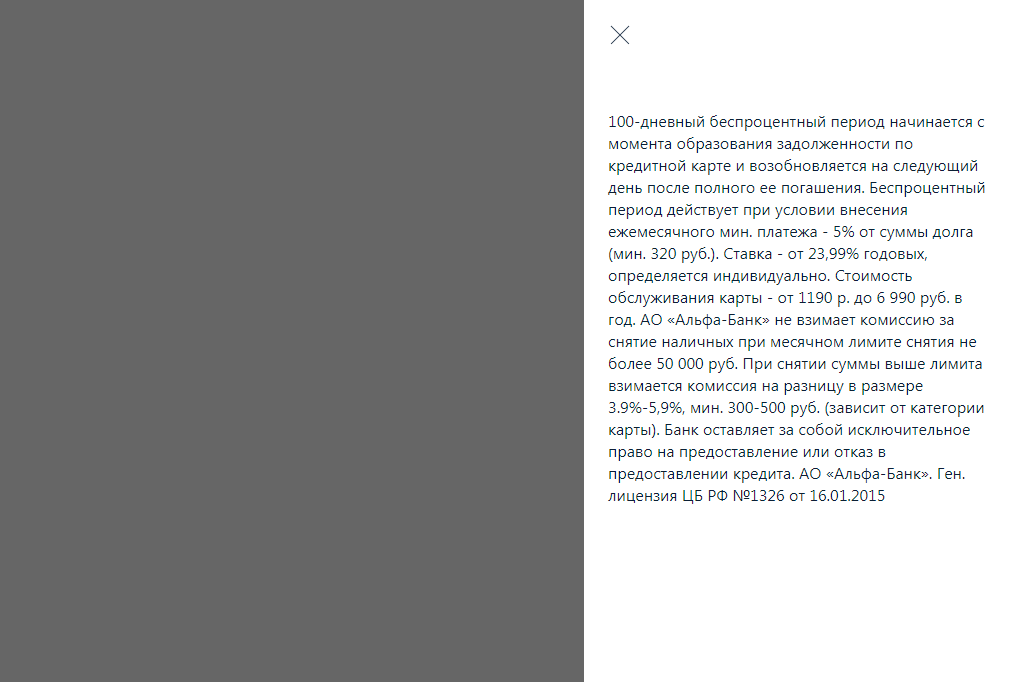
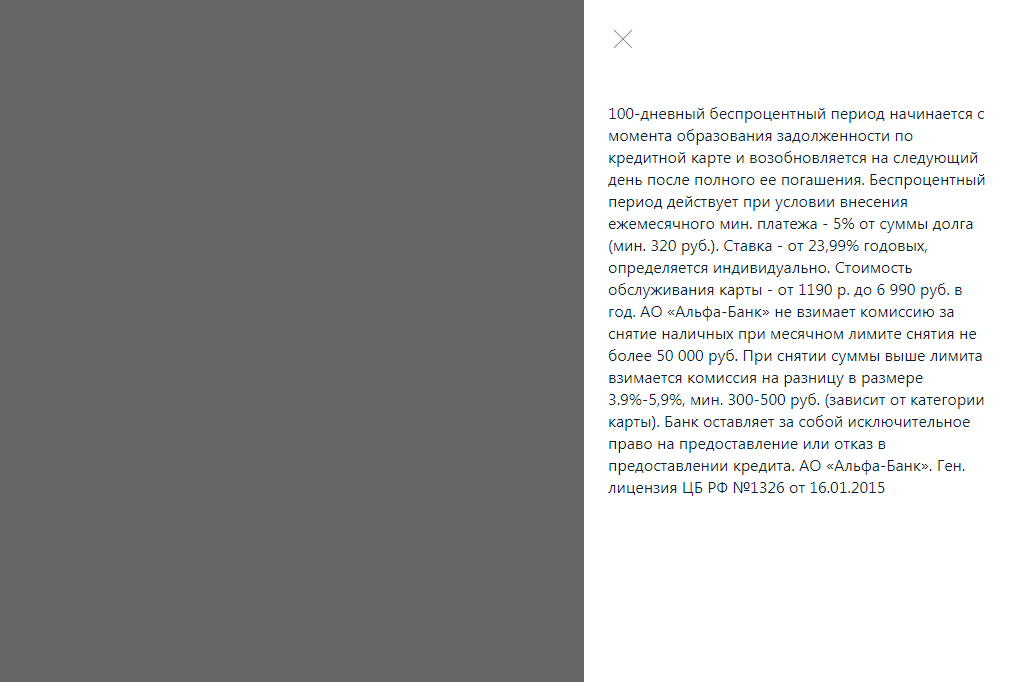
fix(sidebar): updated styles from figma component

Changed region(s): [[0.5809, 0.154, 0.9783, 0.739], [0.6114, 0.0308, 0.642, 0.0616]]

diff --git a/src/sidebar/sidebar.css b/src/sidebar/sidebar.css
@@ -5,13 +5,8 @@
 @import '../vars.css';
 
 :root {
-    --sidebar-width: 352px;
-    --sidebar-shift: 40px;
-    --sidebar-padding: 24px;
-    --sidebar-padding-top: 40px;
-    --sidebar-padding-small: 12px;
-    --sidebar-header-height: 56px;
-    --sidebar-mobile-offset-top: 21px;
+    --sidebar-width: 430px;
+    --sidebar-header-height: 48px;
     --transition-duration: 350ms;
 }
 
@@ -25,9 +20,8 @@ body.sidebar-overlay {
     position: fixed;
     top: 0;
     right: 0;
-    width: calc(var(--sidebar-width) + var(--sidebar-shift));
+    width: var(--sidebar-width);
     height: 100%;
-    padding: 0;
     font-family: var(--font);
     transition: transform var(--transition-duration) ease-in-out;
     transform: translateX(100%);
@@ -43,8 +37,8 @@ body.sidebar-overlay {
 
     &__header {
         display: flex;
-        min-height: 20px;
-        margin-bottom: 50px;
+        min-height: 30px;
+        margin-bottom: var(--gap-4xl);
     }
 
     &__header-content {
@@ -76,7 +70,18 @@ body.sidebar-overlay {
     }
 
     &__closer {
-        margin: -14px 0 0 -10px;
+        margin: -9px;
+        opacity: 0.6;
+        transition: opacity var(--transition-duration);
+
+        &:hover {
+            opacity: 1;
+        }
+
+        .icon-button {
+            width: 48px;
+            height: 48px;
+        }
     }
 
     &__inner {
@@ -84,7 +89,7 @@ body.sidebar-overlay {
         flex-direction: column;
         height: 100%;
 
-        padding: var(--sidebar-padding) var(--sidebar-padding) 0;
+        padding: var(--gap-xl);
 
         overflow-y: auto;
         overflow-x: hidden;
@@ -95,18 +100,18 @@ body.sidebar-overlay {
         flex: 1;
 
         width: 100%;
-        padding-bottom: 35px;
+
+        > :first-child {
+            margin-top: 0;
+        }
     }
 }
 
 @media (--small-only) {
     .sidebar {
         width: 100%;
-        padding: 0;
-        margin-right: 0;
 
         &_visible {
-            margin-right: 0;
             overflow: hidden;
         }
 
@@ -122,11 +127,11 @@ body.sidebar-overlay {
 
             width: 100%;
             height: var(--sidebar-header-height);
-            padding: 15px var(--sidebar-padding-small);
+            padding: 0 var(--gap-m);
         }
 
         &__closer {
-            margin: 0 0 0 -5px;
+            margin: 0 0 0 var(--gap-m-neg);
         }
 
         &__header-content {
@@ -134,7 +139,6 @@ body.sidebar-overlay {
             justify-content: flex-end;
             width: 100%;
 
-            padding-left: 20px;
             overflow: hidden;
         }
 
@@ -152,7 +156,7 @@ body.sidebar-overlay {
                 z-index: 1;
 
                 width: 100%;
-                height: 40px;
+                height: 24px;
 
                 content: '';
                 pointer-events: none;
@@ -173,7 +177,7 @@ body.sidebar-overlay {
             position: relative;
 
             min-height: calc(100vh - var(--sidebar-header-height));
-            padding: calc(var(--sidebar-header-height) + var(--sidebar-mobile-offset-top)) var(--sidebar-padding-small) 35px;
+            padding: calc(var(--sidebar-header-height) + var(--gap-xl)) var(--gap-m) var(--gap-xl);
 
             overflow-y: scroll;
             -webkit-overflow-scrolling: touch;

diff --git a/src/sidebar/sidebar_theme_alfa-on-white.css b/src/sidebar/sidebar_theme_alfa-on-white.css
@@ -11,8 +11,9 @@
 @media (--small-only) {
     .sidebar_theme_alfa-on-white {
         .sidebar__header {
-            background-color: var(--color-background-alfa-on-white);
-            border-bottom: 1px solid var(--color-border-separator-alfa-on-white);
+            /* TODO заменить на токены, цвета должны соответствовать Modal */
+            background: rgba(255, 255, 255, 0.95);
+            border-bottom: 1px solid rgba(0, 0, 0, 0.1);
         }
 
         .sidebar__footer:after {

diff --git a/src/sidebar/sidebar.jsx b/src/sidebar/sidebar.jsx
@@ -178,7 +178,7 @@ class Sidebar extends React.Component {
                                     size={ this.state.isMobile ? 'm' : 'l' }
                                     onClick={ this.handleClose }
                                 >
-                                    <IconClose size={ this.state.isMobile ? 'm' : 'l' } />
+                                    <IconClose size='l' />
                                 </IconButton>
                             </div>
                         }

diff --git a/src/sidebar/README.md b/src/sidebar/README.md
@@ -1,10 +1,5 @@
 Сайдбар
 ```jsx
-import Button from 'arui-feather/button';
-import Heading from 'arui-feather/heading';
-import Input from 'arui-feather/input';
-import Paragraph from 'arui-feather/paragraph';
-
 function toggleSidebar() {
     setState({ isOpen: !state.isOpen });
 }
@@ -20,13 +15,6 @@ initialState = {
         <Heading size='m'>
             Выписка по счёту
         </Heading>
-        <div style={ { marginBottom: 20 } }>
-            <Input
-                label='Куда отправить выписку?'
-                size='m'
-                placeholder='Адрес электронной почты'
-            />
-        </div>
         <Paragraph>
             100-дневный беспроцентный период начинается с момента образования задолженности по кредитной карте
             и возобновляется на следующий день после полного ее погашения. Беспроцентный период действует
@@ -47,99 +35,62 @@ initialState = {
             (зависит от категории карты). Банк оставляет за собой исключительное право на предоставление или отказ
             в предоставлении кредита. АО «Альфа-Банк». Ген. лицензия ЦБ РФ №1326 от 16.01.2015
         </Paragraph>
-        <Button size='m' view='extra'>Отправить</Button>
+        <Button view='extra'>Отправить</Button>
     </Sidebar>
 </div>
 ```
 
 Сайдбар с кнопкой в шапке сайдбара (используется только в мобильной версии)
 ```jsx
-import Button from 'arui-feather/button';
-import Heading from 'arui-feather/heading';
-import RadioGroup from 'arui-feather/radio-group';
-import Radio from 'arui-feather/radio';
-import CheckBoxGroup from 'arui-feather/checkbox-group';
-import CheckBox from 'arui-feather/checkbox';
-
 function toggleSidebar() {
     setState({ isOpen: !state.isOpen });
 }
+
 initialState = {
     isOpen: false
 };
+
 <div>
     <Button onClick={ toggleSidebar }>Фильтр</Button>
     <Sidebar
         headerContent={
-            <button
-                style={ {
-                    margin: 0,
-                    padding: 0,
-                    border: 0,
-                    background: 'none',
-                    outline: 'none',
-                    font: 'inherit',
-                    cursor: 'pointer'
-                } }
-                onClick={ toggleSidebar }
-            >
+            <Link onClick={ toggleSidebar }>
                 Применить
-            </button>
+            </Link>
         }
         visible={ state.isOpen }
         onCloserClick={ toggleSidebar }
     >
-        <div style={ { marginBottom: 40 } }>
-            <Heading size='s'>
-                Тип операции
-            </Heading>
-            <RadioGroup type='button'>
-                {
-                    ['Пополнение', 'Списание'].map(text => (
-                        <Radio
-                            text={ text }
-                            key={ text }
-                            value={ text }
-                            type='button'
-                        />
-                    ))
-                }
-            </RadioGroup>
-        </div>
-        <div style={ { marginBottom: 40 } }>
-            <Heading size='s'>
-                Счета
-            </Heading>
-            <CheckBoxGroup type='button'>
-                {
-                    ['Счёт ₽ ··2331', 'Счёт $ ··2331'].map(text => (
-                        <CheckBox
-                            text={ text }
-                            key={ text }
-                            value={ text }
-                            type='button'
-                        />
-                    ))
-                }
-            </CheckBoxGroup>
-        </div>
-        <div style={ { marginBottom: 40 } }>
-            <Heading size='s'>
-                Дата операции
-            </Heading>
-            <RadioGroup type='button'>
-                {
-                    ['День', 'Месяц', 'Год'].map(text => (
-                        <Radio
-                            text={ text }
-                            key={ text }
-                            value={ text }
-                            type='button'
-                        />
-                    ))
-                }
-            </RadioGroup>
-        </div>
+        <Heading size='s'>
+            Тип операции
+        </Heading>
+        <RadioGroup type='button'>
+            {
+                ['Пополнение', 'Списание'].map(text => (
+                    <Radio
+                        text={ text }
+                        key={ text }
+                        value={ text }
+                        type='button'
+                    />
+                ))
+            }
+        </RadioGroup>
+        <Heading size='s'>
+            Дата операции
+        </Heading>
+        <RadioGroup type='button'>
+            {
+                ['День', 'Месяц', 'Год'].map(text => (
+                    <Radio
+                        text={ text }
+                        key={ text }
+                        value={ text }
+                        type='button'
+                    />
+                ))
+            }
+        </RadioGroup>
     </Sidebar>
 </div>
 ```
